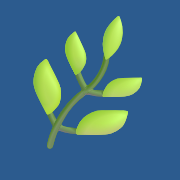
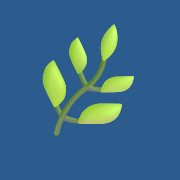
Rydd ubrukte imports, fiks SVG-attributt, oppdater PWA-ikoner
- AuthScreen.jsx: fjern ubrukte imports (diagnostiserStorage, publiskBruker)
- barnehagehjelpen.jsx: fjern ubrukte imports (SUPPORT_E_POST, escapeHTML, mdToHtml, stripMd, skrivUtVindu)
- tegneark.jsx: fiks strokeWidth="S.sw" → strokeWidth={S.sw} i SvgBevegelse
- public/: oppdaterte PWA-ikoner (pwa-64/192/512, maskable, favicon, apple-touch)

Changed region(s): [[0.1667, 0.0833, 0.8056, 0.8333], [0.4722, 0.3056, 0.5, 0.3611], [0.4444, 0.2222, 0.4722, 0.2778]]

diff --git a/barnehagehjelpen.jsx b/barnehagehjelpen.jsx
@@ -4,7 +4,7 @@ import { supabase } from "./supabase.js";
 import { FAGOMRADER, RE } from './data/rammeplan.js';
 import { SANGER } from './data/sanger.js';
 import { AKTIVITETER } from './data/aktiviteter.js';
-import { SUPPORT_E_POST, supportMailto, FAQ_DATA } from './data/faq.js';
+import { supportMailto, FAQ_DATA } from './data/faq.js';
 import { hilsen, DAGENS_TIPS } from './data/tips.js';
 import TegnearkSide, { hentUserTegneark } from './TegnearkSide.jsx';
 import { SvgPlaceholder, TEGNEARK } from './data/tegneark.jsx';
@@ -14,7 +14,6 @@ import AiSideComp from './AiSide.jsx';
 import AuthScreen, { AdminPanel } from './AuthScreen.jsx';
 import Hjem, { MineSkjemaer } from './Hjem.jsx';
 import { Tilbake, FagTag } from './components.jsx';
-import { escapeHTML, mdToHtml, stripMd, skrivUtVindu } from './utils.js';
 import { byggBruker, hentProfil, hentSesjon, slettSesjon, hentFavoritter, lagreFavoritter, hentMaanedsplaner, lagreMaanedsplaner, hentMaanedsbrev, lagreMaanedsbrev, hentAktivitetskort, lagreArsplaner, lagreDokumentasjon, lagreUkeplaner, lagreKalenderplaner, hentUkeplaner, hentKalenderplaner, hentArsplaner, hentDokumentasjon, hentPlanTema, lagrePlanTema } from './api.js';
 
 const BokerSide = React.lazy(() => import('./Boker.jsx'));

diff --git a/data/tegneark.jsx b/data/tegneark.jsx
@@ -117,7 +117,7 @@ const SvgBevegelse = ()=>(
     <text x="50" y="230" textAnchor="middle" fontSize="11" fill={S.s} {...T}>Hoppe!</text>
     {/* Figure 2: Running – leaning forward, arms swinging */}
     <circle cx="150" cy="52" r="22"/>
-    <path d="M150 74 L148 138" strokeWidth="S.sw"/>
+    <path d="M150 74 L148 138" strokeWidth={S.sw}/>
     <path d="M148 90 L118 76"/><path d="M148 90 L175 108"/>
     <path d="M148 138 L128 178 L116 170"/><path d="M148 138 L170 172 L182 165"/>
     <text x="150" y="230" textAnchor="middle" fontSize="11" fill={S.s} {...T}>Løpe!</text>

diff --git a/AuthScreen.jsx b/AuthScreen.jsx
@@ -1,6 +1,6 @@
 import React, { useState, useEffect, useRef } from "react";
 import { supabase } from "./supabase.js";
-import { passordStyrke, validerTelefon, diagnostiserStorage, hentProfil, sendTilbakestillEpost, publiskBruker, AVATAR_VALG, registrerBruker, loggInnBruker } from './api.js';
+import { passordStyrke, validerTelefon, hentProfil, sendTilbakestillEpost, AVATAR_VALG, registrerBruker, loggInnBruker } from './api.js';
 import { supportMailto } from './data/faq.js';
 
 import { C } from './utils.js';
